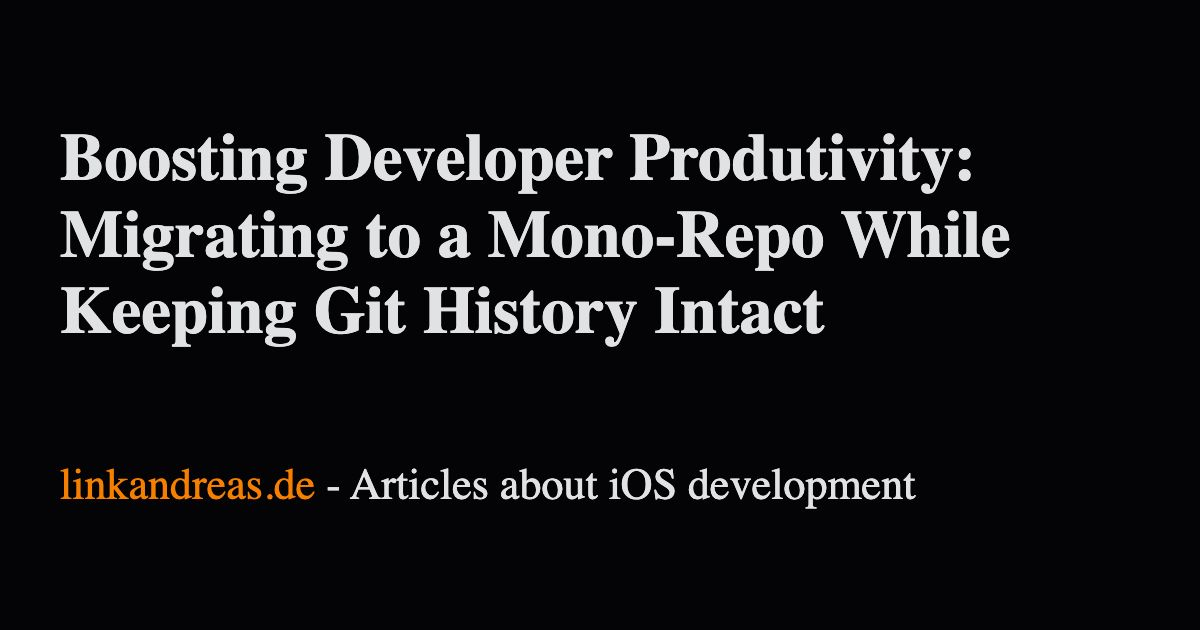
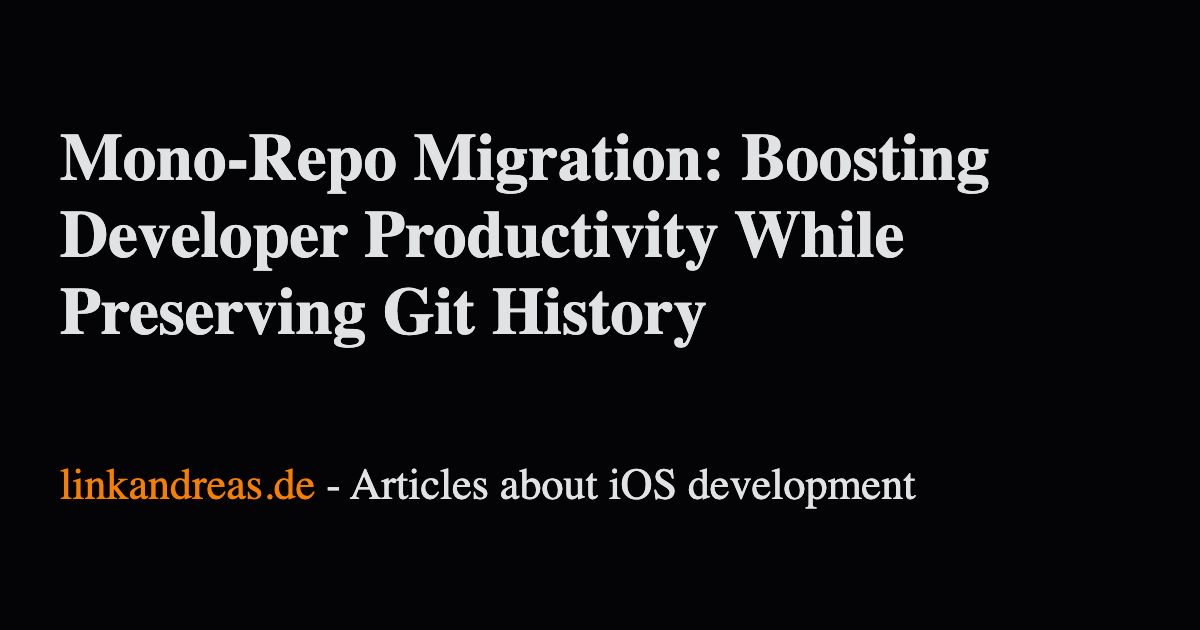
Update article date to `25-04-2025`

Changed region(s): [[0.0308, 0.2111, 0.8633, 0.573]]

diff --git a/src/data/ArticleData.js b/src/data/ArticleData.js
@@ -1,4 +1,4 @@
-import article7 from "./articles/21_04_2025.md";
+import article7 from "./articles/25_04_2025.md";
 import article6 from "./articles/16_03_2024.md";
 import article5 from "./articles/17_04_2023.md";
 import article4 from "./articles/10_04_2023.md";
@@ -9,10 +9,10 @@ import rfc822Date from "rfc822-date";
 
 const articles = [
     {
-        id: '2025-04-21',
-        date: rfc822Date(new Date('2025-04-21')),
+        id: '2025-04-25',
+        date: rfc822Date(new Date('2025-04-25')),
         markdown: article7,
-        title: 'Boosting Developer Produtivity: Migrating to a Mono-Repo While Keeping Git History Intact',
+        title: 'Mono-Repo Migration: Boosting Developer Productivity While Keeping Git History Intact',
         description: `Modularization is essential for scaling large software projects, enabling faster 
             development and better maintainability. However, when modules are split across multiple 
             repositories, developer productivity can suffer due to the overhead of coordinating changes 

diff --git a/src/data/articles/25_04_2025.md b/src/data/articles/25_04_2025.md
@@ -1,4 +1,4 @@
-# Boosting Developer Productivity: Migrating to a Mono-Repo while keeping Git History intact
+# Mono-Repo Migration: Boosting Developer Productivity While Keeping Git History Intact
 
 Large software projects require modular codebases to ensure scalability and maintainability of the application. As a result, we can deal with an increased number of customer requests and deliver features on tight schedules.
 
@@ -12,7 +12,7 @@ When changes often affect the project as well as its in-house dependencies, a Mo
 
 As an example, consider the following approaches:
 
-![Scenarios](article_21_04_2025_scenario.png)
+![Scenarios](article_25_04_2025_scenario.png)
 
 While three pull requests are necessary to apply changes to the main project as well as its dependencies when using a *Multi-Repo*, the *Mono-Repo* only requires a single pull request.
 
@@ -26,7 +26,7 @@ Let's briefly discuss the overall concept of how to approach a Mono-Repo migrati
 
 For demonstration purposes, we consider a `Main` repository, which depends on two in-house repositories: `Dependency 1` and `Dependency 2`. All repositories follow  Git Flow, using `main` and `develop` as their primary branches. Feature branches are created from `develop` and merged back into it upon completion.
 
-![Context](article_21_04_2025_context.png)
+![Context](article_25_04_2025_context.png)
 
 The goal is to consolidate the Git history of all three repositories into the `Main` repository. This is made possible by Git’s ability to merge branches from unrelated hierarchies. By adding each dependency as a remote, we can directly merge their key branches (such as `main` and `develop`) into the corresponding branches of the `Main` repository.
 
@@ -37,11 +37,11 @@ Before merging, a *preparation step* is required to minimize potential conflicts
 
 As soon as dependencies are prepared we merge their respective `main` branch into `develop` to avoid merge-conflicts after all repos have been merged to the `Main` repository. Otherwise, conflicts will arise after the integration when we try to merge `main` into `develop`.
 
-![Context](article_21_04_2025_preparation.png)
+![Context](article_25_04_2025_preparation.png)
 
 Next, the *preparation branches* are merged into dedicated *integration branches*, from which pull requests are created to review the changes introduced during the mono-repo transition. Maintaining the full Git history of each dependency is essential for traceability. This is accomplished by using the `--allow-unrelated-histories` flag during the merge process. The migration concludes with the final merge of these pull requests into the `Main` repository.
 
-![Context](article_21_04_2025_integration.png)
+![Context](article_25_04_2025_integration.png)
 
 After outlining the migration concept, let's introduce the Python script designed to assist with the migration.
 
